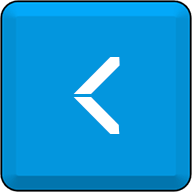
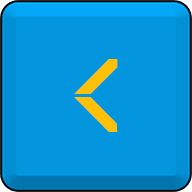
backSpace button - js add && few design change

diff --git a/index.html b/index.html
@@ -32,13 +32,13 @@
                 <td>
                     <button type="button" onclick="cle(value)" value="">
                         <img src="asset/image/c.png" />
-                        <span onclick="play()"></span>
+                        <span class="clean" onclick="play()"></span>
                     </button>
                 </td>
                 <td>
-                    <button type="button" onclick="number(value)" value="/">
+                    <button type="button" onclick="cleanLast()" value="">
                         <img src="asset/image/backSpace.png" />
-                        <span onclick="play()"></span>
+                        <span class="lastClean" onclick="play()"></span>
                     </button>
                 </td>
                 <td>

diff --git a/asset/css-js/style.css b/asset/css-js/style.css
@@ -92,11 +92,12 @@ img {
 /* Ripple effect */
 span {
     top: 0;
-    left: 0;
-    right: 0;
-    bottom: 0;
+    left: 1px;
+    right: 1px;;
+    bottom: 4px;
     z-index: 3;
     display: flex;
+    border-radius: 8px;
     position: absolute;
     align-items: center;
     justify-content: center;
@@ -110,6 +111,14 @@ span:active {
     transition: background 0s;
     backdrop-filter: blur(5px);
     background-color: rgba(252, 252, 252, 0.1);
+}
+
+span.clean:active {
+    background-color: rgba(220, 53, 69, .7);
+}
+
+span.lastClean:active {
+    background-color: rgba(255, 193, 7, 1);
 }
 
 /* Table */

diff --git a/asset/css-js/custom.js b/asset/css-js/custom.js
@@ -15,6 +15,13 @@ function cle(value) {
     document.calculatorForm.totalResult.value = value;
 }
 
+// Clean Last
+function cleanLast() {
+    var inputResult = document.getElementById('blink').value;
+    var removeValue = inputResult.slice(0, inputResult.length - 1);
+    document.getElementById('blink').value = removeValue;
+}
+
 // Calculation
 function evalua() {
 //  var evalu = eval(document.calculatorForm.result.value);
